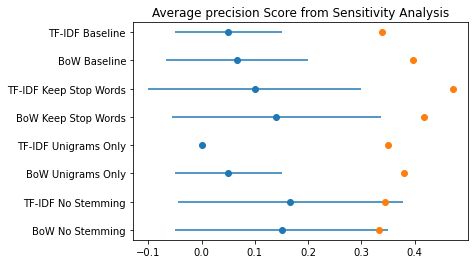
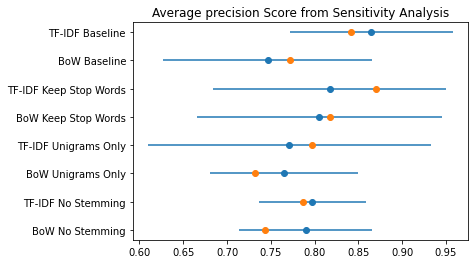
Changed vectorizing parameters

diff --git a/MachineLearning/modules/preprocessing_decisions.py b/MachineLearning/modules/preprocessing_decisions.py
@@ -26,30 +26,30 @@ def svc_sensitivity(df, scores):
         StemmedTfidfVectorizer(
             norm='l2', encoding='utf-8', 
             stop_words='english', ngram_range = (1,2),
-            max_df = .8, min_df = 3, max_features=10000,
-            strip_accents = 'ascii'
+            max_df = .8, min_df = 3, max_features=60000,
+            strip_accents = 'ascii', lowercase=True
             ),
         
         StemmedCountVectorizer(
             encoding='utf-8', stop_words='english', 
             ngram_range = (1,2), max_df = .8, 
-            min_df = 3, max_features=10000,
-            strip_accents = 'ascii'
+            min_df = 3, max_features=60000,
+            strip_accents = 'ascii', lowercase=True
             ),
         
         # Keep stop words
         StemmedTfidfVectorizer(
             norm='l2', encoding='utf-8', 
             ngram_range = (1,2), max_df = .8, 
-            min_df = 3, max_features=10000, 
-            strip_accents = 'ascii'
+            min_df = 3, max_features=60000, 
+            strip_accents = 'ascii', lowercase=True
             ),
         
         StemmedCountVectorizer(
             encoding='utf-8', ngram_range = (1,2), 
             max_df = .8, min_df = 3, 
-            max_features=10000, 
-            strip_accents = 'ascii'
+            max_features=60000, 
+            strip_accents = 'ascii', lowercase=True
             ),
         
         # Unigrams Only
@@ -57,32 +57,32 @@ def svc_sensitivity(df, scores):
             norm='l2', encoding='utf-8', 
             ngram_range = (1,1), stop_words = 'english', 
             max_df = .8, min_df = 3, 
-            max_features=10000, 
-            strip_accents = 'ascii'
+            max_features=60000, 
+            strip_accents = 'ascii', lowercase=True
             ),
         
         StemmedCountVectorizer(
             encoding='utf-8', ngram_range = (1,1), 
             stop_words = 'english', 
             max_df = .8, min_df = 3, 
-            max_features=10000, 
-            strip_accents = 'ascii'
+            max_features=60000, 
+            strip_accents = 'ascii', lowercase=True
             ),
         # No Stemming
         TfidfVectorizer(
             norm='l2', encoding='utf-8', 
             ngram_range = (1,1), stop_words = 'english', 
             max_df = .8, min_df = 3, 
-            max_features=10000, 
-            strip_accents = 'ascii'
+            max_features=60000, 
+            strip_accents = 'ascii', lowercase=True
             ),
         
         CountVectorizer(
             encoding='utf-8', ngram_range = (1,1), 
             stop_words = 'english', 
             max_df = .8, min_df = 3, 
-            max_features=10000, 
-            strip_accents = 'ascii'
+            max_features=60000, 
+            strip_accents = 'ascii', lowercase=True
             )
         ]
     
@@ -108,7 +108,7 @@ def svc_sensitivity(df, scores):
             features = vec.fit_transform(df.paragraphs).toarray()
             labels = df.code
             X_train, X_test, y_train, y_test = train_test_split(
-                features, labels, random_state = 1234,test_size=0.3
+                features, labels, random_state = 1111,test_size=0.3
                 )
            
             # Run the sensitivity analysis and store the best parameters.

diff --git a/MachineLearning/MAC_SVC.py b/MachineLearning/MAC_SVC.py
@@ -9,12 +9,14 @@ import re
 import pandas as pd
 import warnings
 
+os.chdir(r'C:\Users\chase\GDrive\GD_Work\Dissertation'
+         r'\MACoding\MAC_Methods\MachineLearning')
+
 # Local modules
 from modules.preprocessing_decisions import svc_sensitivity, preprocess_plots
 from modules.cleaning import clean_multi, nodup_sample
 
-os.chdir(r'C:\Users\chase\GDrive\GD_Work\Dissertation'
-         r'\MACoding\MAC_Methods\MachineLearning')
+
 
 outpath = (r'C:/Users/chase/GDrive/GD_Work/Dissertation/MACoding/'
            r'MAC_Methods/MachineLearning/Downloading&Coding/Exported/')

diff --git a/MachineLearning/Modules/Cleaning.py b/MachineLearning/Modules/Cleaning.py
@@ -64,8 +64,8 @@ def clean_multi(inpath, outpath):
             
             # Remove paragraphs with less than 200 characters.   
             paragraphs = [
-                l for l in paragraphs if len(l) > 200 & len(l) < 32500
-                ] 
+                l for l in paragraphs if len(l) > 200 & len(l) < 32000
+                ]
             
             #Create dataset from cleaned news articles.
             temp_df = pd.DataFrame(
